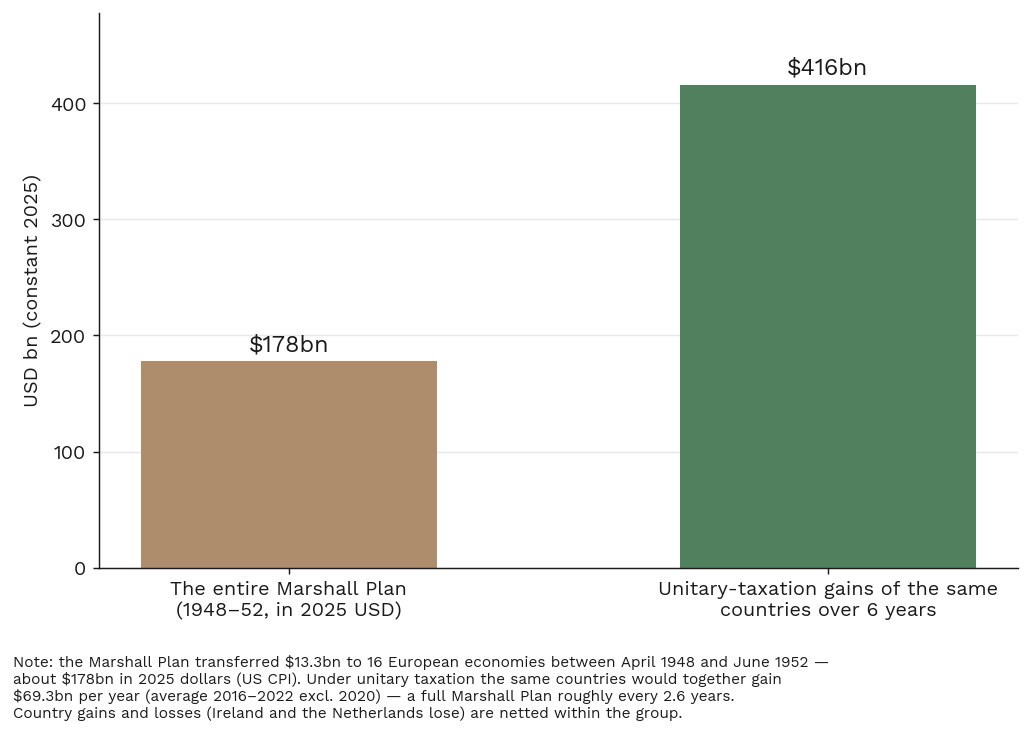
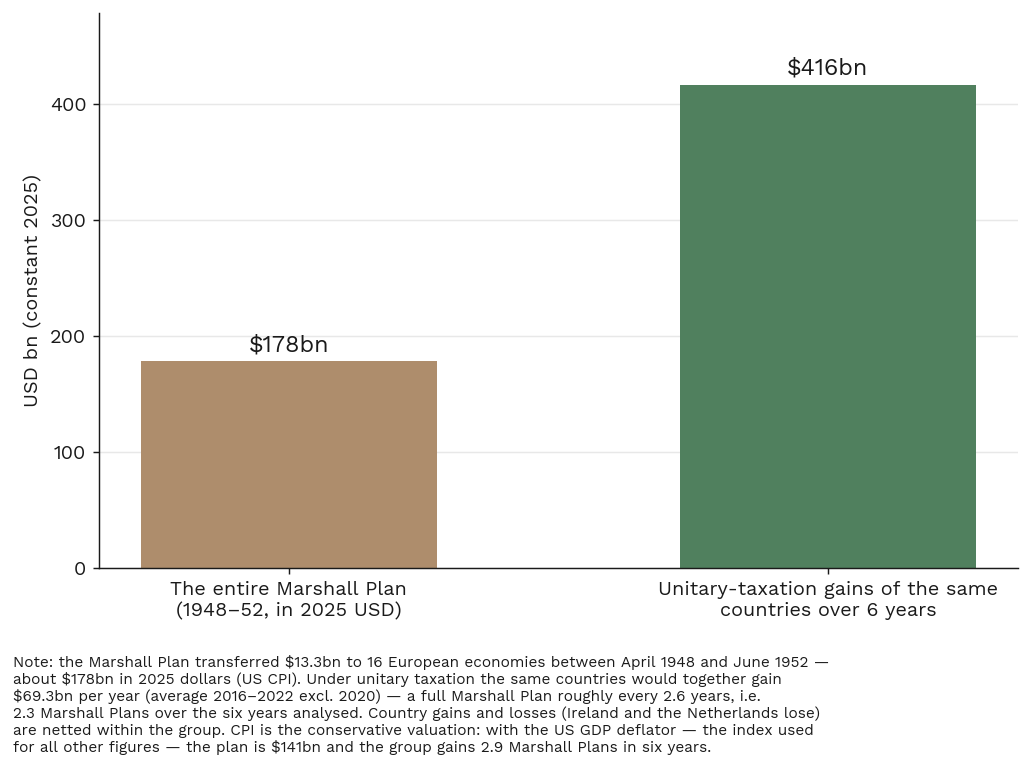
9t: GDP-deflator sensitivity for the Marshall Plan valuation
CPI stays the headline (plan = $178bn, 2.34 plans per 6 years) - it is the
conservative index. The pipeline-consistent US GDP deflator (FRED
A191RD3A086NBEA, 1950 anchor x10.58) values the plan at $141bn -> 2.95
plans per 6 years; carried as *_gdpdef table columns + figure note.

diff --git a/src/9t_ut_gains_vs_imf_debt_marshall.py b/src/9t_ut_gains_vs_imf_debt_marshall.py
@@ -189,8 +189,13 @@ def part1_imf(gains):
 # ── part 2: the Marshall Plan ────────────────────────────────────────────────
 def part2_marshall(gains):
     aid = pd.read_csv(MARSHALL_CSV, comment="#")
-    cpi = pd.read_csv(CPI_CSV, comment="#").set_index("year")["cpi_u"]
-    cpi_factor = cpi[config.BASE_YEAR] / cpi[CPI_ANCHOR_YEAR]
+    px = pd.read_csv(CPI_CSV, comment="#").set_index("year")
+    cpi_factor = px.loc[config.BASE_YEAR, "cpi_u"] / px.loc[CPI_ANCHOR_YEAR, "cpi_u"]
+    # sensitivity: the pipeline-consistent index (US GDP deflator, same series as
+    # config.US_GDP_DEFLATOR_2017100). CPI gives the plan its LARGEST 2025-USD
+    # value, so the CPI headline is the conservative ratio.
+    gdpdef_factor = (px.loc[config.BASE_YEAR, "gdpdef_2017100"]
+                     / px.loc[CPI_ANCHOR_YEAR, "gdpdef_2017100"])
 
     by_iso = gains.set_index("iso3")["gain_bn"]
 
@@ -204,7 +209,10 @@ def part2_marshall(gains):
     for src, dst in [("aid_total_musd", "aid_total_2025bn"),
                      ("grants_musd", "aid_grants_2025bn")]:
         aid[dst] = aid[src] * cpi_factor / 1e3
+    aid["aid_total_2025bn_gdpdef"] = aid["aid_total_musd"] * gdpdef_factor / 1e3
     aid["marshall_plans_per_6yr"] = aid["cum_gain_bn"] / aid["aid_total_2025bn"]
+    aid["marshall_plans_per_6yr_gdpdef"] = (aid["cum_gain_bn"]
+                                            / aid["aid_total_2025bn_gdpdef"])
     aid["years_per_marshall_plan"] = np.where(
         aid["gain_bn"] > 0, aid["aid_total_2025bn"] / aid["gain_bn"], np.nan)
     aid["years_per_marshall_plan_grants"] = np.where(
@@ -212,19 +220,24 @@ def part2_marshall(gains):
 
     # aggregate: every recipient (Regional aid counts in the denominator)
     tot_aid, tot_grants = aid["aid_total_2025bn"].sum(), aid["aid_grants_2025bn"].sum()
+    tot_aid_gdpdef = aid["aid_total_2025bn_gdpdef"].sum()
     tot_gain = aid["gain_bn"].sum(skipna=True)            # Regional row is NaN
     agg = dict(recipient="ALL RECIPIENTS (aggregate)", iso3="",
                aid_total_musd=aid["aid_total_musd"].sum(),
                grants_musd=aid["grants_musd"].sum(),
                aid_total_2025bn=tot_aid, aid_grants_2025bn=tot_grants,
+               aid_total_2025bn_gdpdef=tot_aid_gdpdef,
                gain_bn=tot_gain, cum_gain_bn=tot_gain * N_YEARS,
                marshall_plans_per_6yr=tot_gain * N_YEARS / tot_aid,
+               marshall_plans_per_6yr_gdpdef=tot_gain * N_YEARS / tot_aid_gdpdef,
                years_per_marshall_plan=tot_aid / tot_gain,
                years_per_marshall_plan_grants=tot_grants / tot_gain)
     out = pd.concat([pd.DataFrame([agg]), aid], ignore_index=True)
     keep = ["recipient", "iso3", "aid_total_musd", "grants_musd", "loans_musd",
-            "aid_total_2025bn", "aid_grants_2025bn", "gain_bn", "cum_gain_bn",
-            "marshall_plans_per_6yr", "years_per_marshall_plan",
+            "aid_total_2025bn", "aid_grants_2025bn", "aid_total_2025bn_gdpdef",
+            "gain_bn", "cum_gain_bn",
+            "marshall_plans_per_6yr", "marshall_plans_per_6yr_gdpdef",
+            "years_per_marshall_plan",
             "years_per_marshall_plan_grants", "confidence", "note"]
     out = out[[c for c in keep if c in out.columns]].round(2)
     f = TABLES / "ut_gains_vs_marshall_plan.csv"
@@ -246,8 +259,13 @@ def part2_marshall(gains):
             f"${tot_aid:,.0f}bn in 2025 dollars (US CPI). Under unitary taxation the same "
             f"countries would together gain\n${tot_gain:,.1f}bn per year "
             f"(average 2016–2022 excl. 2020) — a full Marshall Plan roughly every "
-            f"{tot_aid / tot_gain:,.1f} years.\nCountry gains and losses (Ireland and the "
-            "Netherlands lose) are netted within the group.")
+            f"{tot_aid / tot_gain:,.1f} years, i.e.\n"
+            f"{tot_gain * N_YEARS / tot_aid:,.1f} Marshall Plans over the six years "
+            "analysed. Country gains and losses (Ireland and the Netherlands lose)\n"
+            "are netted within the group. CPI is the conservative valuation: with the "
+            "US GDP deflator — the index used\nfor all other figures — the plan is "
+            f"${tot_aid_gdpdef:,.0f}bn and the group gains "
+            f"{tot_gain * N_YEARS / tot_aid_gdpdef:,.1f} Marshall Plans in six years.")
     fig.text(0.01, -0.02, note, fontsize=8.5, va="top")
     plt.tight_layout()
     f = FIGURES / "fig_ut_gains_vs_marshall_aggregate.png"

diff --git a/docs/imf_marshall_comparison_sources.md b/docs/imf_marshall_comparison_sources.md
@@ -71,6 +71,17 @@ average = deflated sum ÷ 6.
   $13,325.8M ≈ **$178bn** in 2025 USD; grants-only $11,610.7M ≈ $155bn.
   The pipeline's own `US_GDP_DEFLATOR_2017100` starts in 2016 and cannot
   reach 1948; CPI is also the adjustment most popular sources quote.
+- **Index-consistency sensitivity**: the estimates side uses the US GDP
+  deflator, so the CPI-adjusted plan is an index mismatch — a **deliberate,
+  conservative** one. With the GDP deflator (BEA/FRED `A191RD3A086NBEA`,
+  1950 = 12.195, 2025 = 128.979, factor ≈ **10.58**, now a column in
+  `us_cpi_annual.csv`) the plan is only ≈ **$141bn**, and the group's
+  six-year gain equals **2.95** Marshall Plans (vs the CPI headline 2.34;
+  one plan every 2.0 vs 2.6 years). Carried in the table as
+  `aid_total_2025bn_gdpdef` / `marshall_plans_per_6yr_gdpdef` and in the
+  aggregate-figure note. CPI remains the headline (gives the plan its
+  largest 2025-USD value, so the ratio cannot be accused of inflation-
+  trickery).
 - **Framing** (user, 2026-07-17): headline = the **aggregate** across all 16
   recipient economies, so haven-side losses (IRL, NLD, DNK, NOR) net out
   within the group: recipients gain ≈$69bn/yr → cumulative ≈$416bn over the
